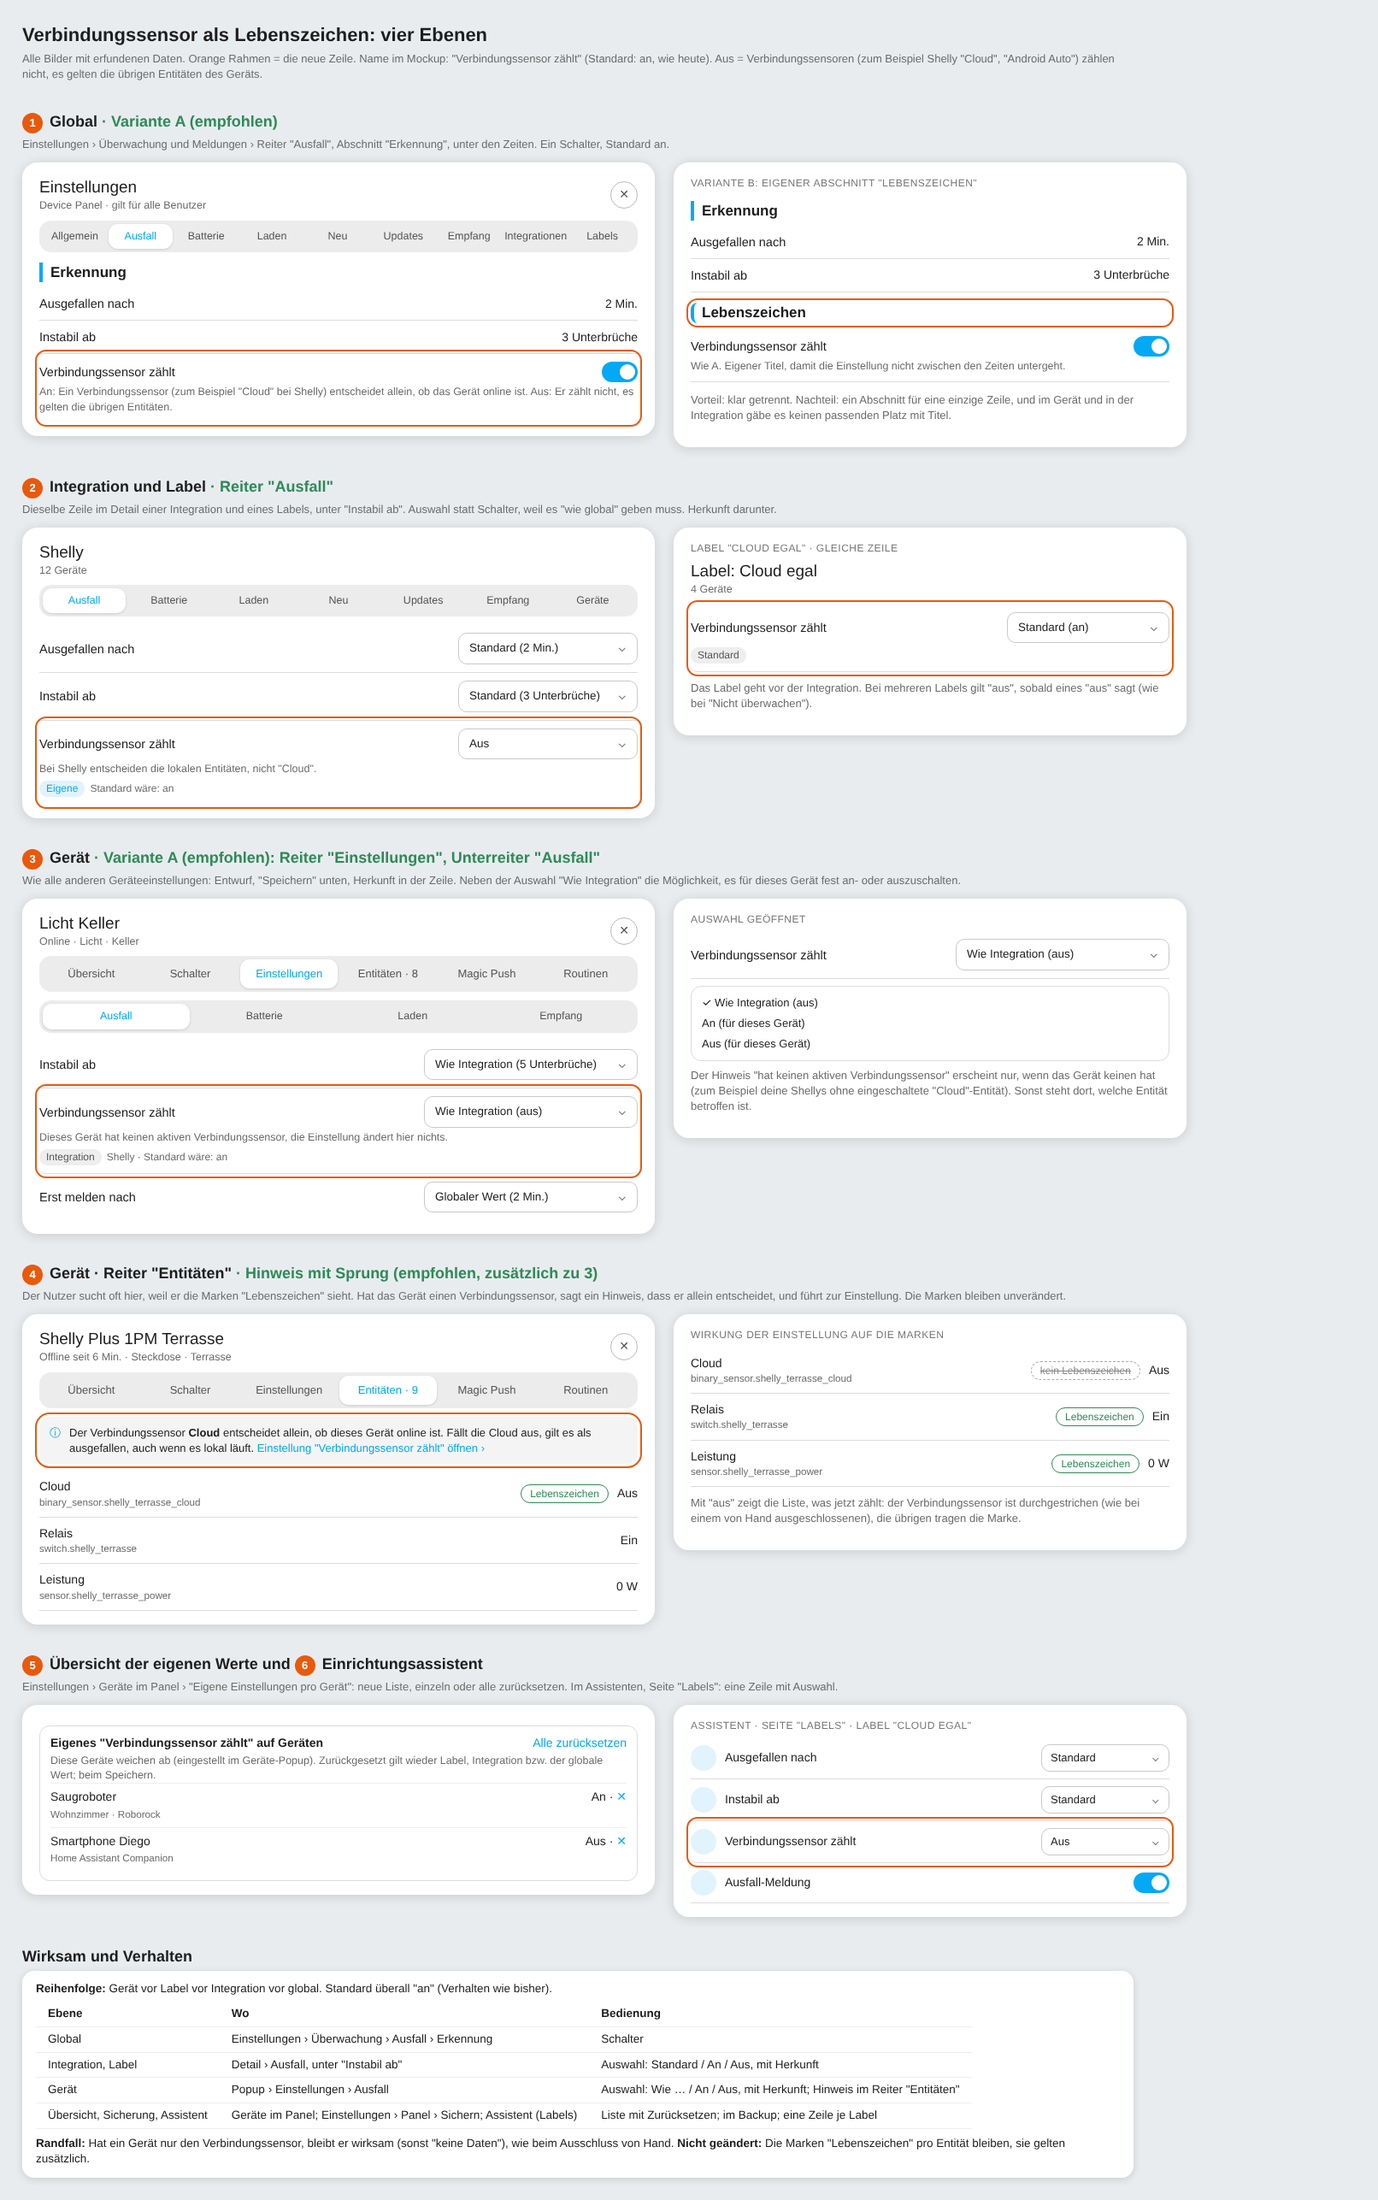
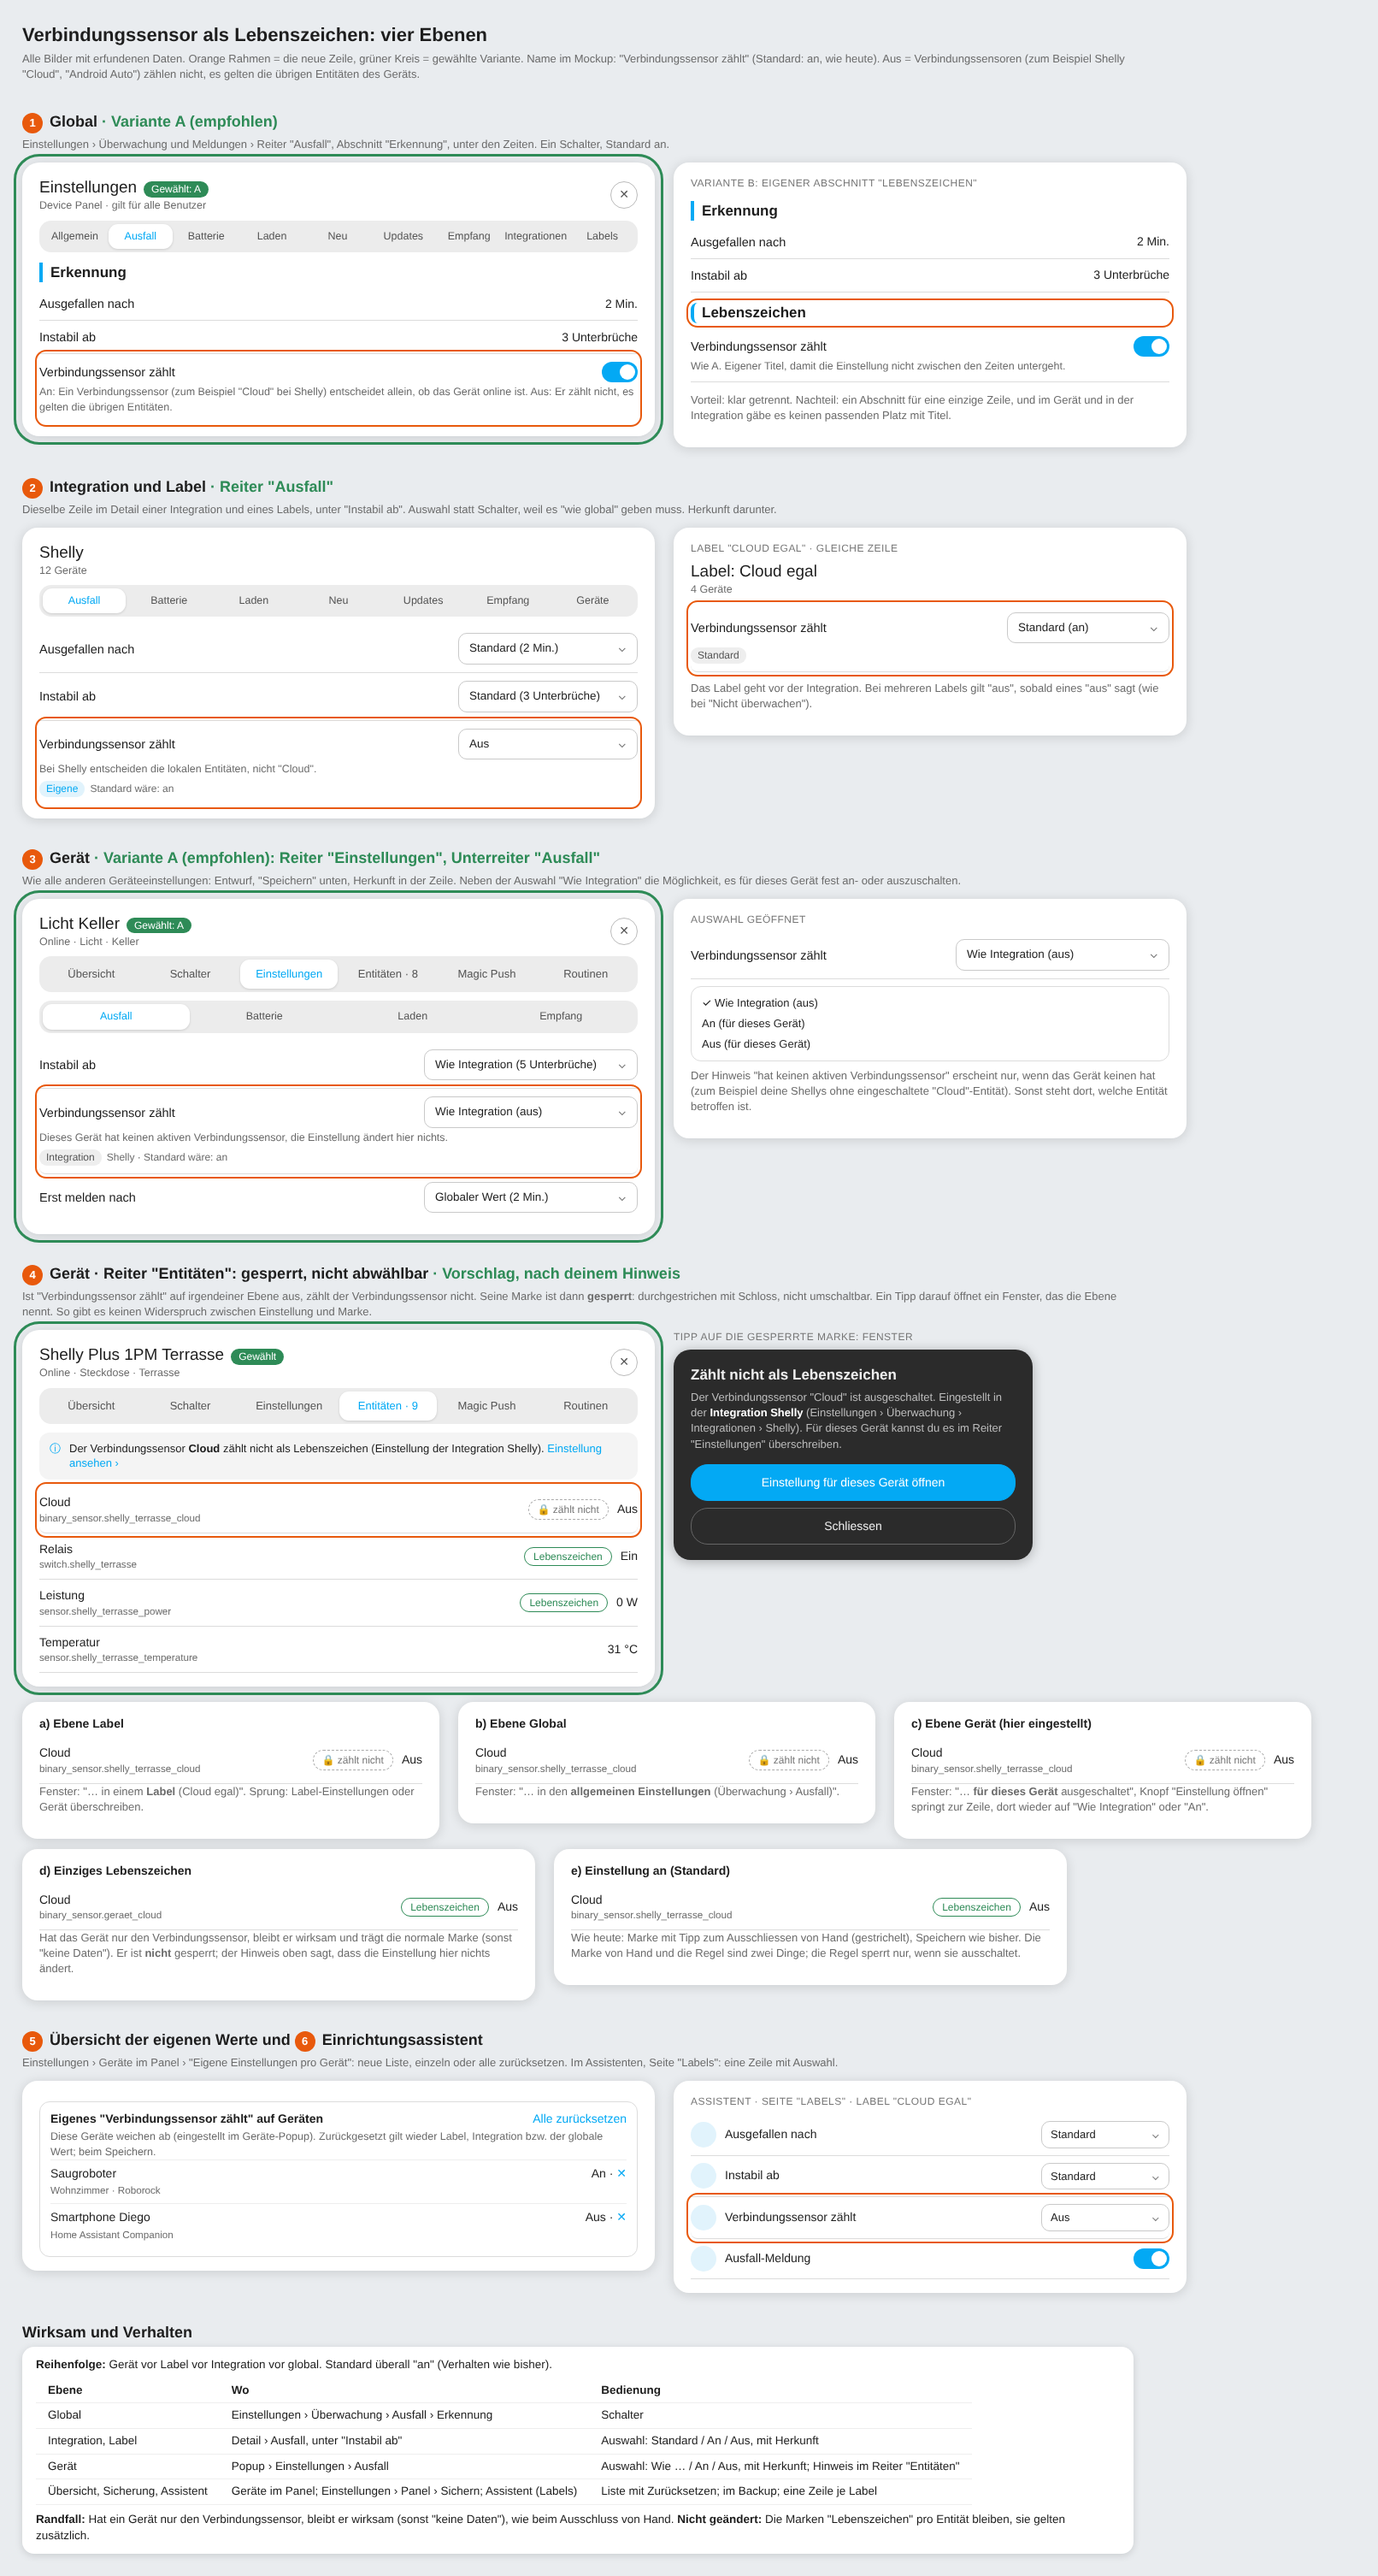
Mockup liveness-conn-v1: gewählte Varianten, gesperrte Marke im Reiter Entitäten
Claude-Session: https://claude.ai/code/session_01U1q7hu4Br2u4E6fFdEJMgU

diff --git a/docs/mockups/liveness-conn-v1/index.html b/docs/mockups/liveness-conn-v1/index.html
@@ -21,6 +21,11 @@ h1{margin:0 0 4px;font-size:22px}h2{margin:34px 0 4px;font-size:18px}.rec{color:
 .sw.off{background:#b9b9b9}.sw.off:after{right:auto;left:3px}
 .org{margin-top:5px;font-size:12px;color:var(--t2)}.org b{display:inline-block;padding:1px 8px;border-radius:9px;font-weight:500;margin-right:6px;background:#eee;color:#555}.org b.own{background:var(--ps);color:var(--p)}
 .mark{outline:2px solid #e8590c;outline-offset:3px;border-radius:8px}
+.pick{outline:3px solid var(--ok);outline-offset:7px;border-radius:20px}
+.pickt{display:inline-block;background:var(--ok);color:#fff;border-radius:10px;padding:1px 9px;font-size:12px;margin-left:8px}
+.lock{display:inline-flex;align-items:center;gap:5px;border:1px dashed #aaa;color:#777;border-radius:14px;padding:3px 10px;font-size:12px;margin-right:10px}
+.dd{width:420px;background:#2b2b2b;color:#eee;border-radius:20px;padding:18px 20px;box-shadow:0 2px 14px #0004}.dd b{display:block;font-size:17px;margin-bottom:6px}.dd small{display:block;color:#bbb;font-size:13px;line-height:1.4}.dd .bt{display:flex;flex-direction:column;gap:8px;margin-top:14px}.dd .bt span{border-radius:20px;padding:11px;text-align:center;border:1px solid #666}.dd .bt span.pr{background:var(--p);border-color:var(--p);color:#fff}
+.case{margin:0 0 6px;font-weight:600}
 .note{display:flex;gap:10px;background:#f4f4f4;border-radius:12px;padding:10px 12px;margin:8px 0;font-size:13px}.note i{font-style:normal;color:var(--p)}
 .link{color:var(--p);font-weight:500}
 .ent{display:flex;justify-content:space-between;align-items:center;padding:9px 0;border-bottom:1px solid var(--ln)}.ent small{display:block;color:var(--t2)}
@@ -36,12 +41,12 @@ h1{margin:0 0 4px;font-size:22px}h2{margin:34px 0 4px;font-size:18px}.rec{color:
 .rule table{border-collapse:collapse;margin-top:6px}.rule td,.rule th{padding:5px 14px;border-bottom:1px solid #eee;text-align:left}
 </style>
 <h1>Verbindungssensor als Lebenszeichen: vier Ebenen</h1>
-<p class="sub">Alle Bilder mit erfundenen Daten. Orange Rahmen = die neue Zeile. Name im Mockup: "Verbindungssensor zählt" (Standard: an, wie heute). Aus = Verbindungssensoren (zum Beispiel Shelly "Cloud", "Android Auto") zählen nicht, es gelten die übrigen Entitäten des Geräts.</p>
+<p class="sub">Alle Bilder mit erfundenen Daten. Orange Rahmen = die neue Zeile, grüner Kreis = gewählte Variante. Name im Mockup: "Verbindungssensor zählt" (Standard: an, wie heute). Aus = Verbindungssensoren (zum Beispiel Shelly "Cloud", "Android Auto") zählen nicht, es gelten die übrigen Entitäten des Geräts.</p>
 
 <h2><span class="num">1</span>Global <span class="rec">· Variante A (empfohlen)</span></h2>
 <p class="sub">Einstellungen › Überwachung und Meldungen › Reiter "Ausfall", Abschnitt "Erkennung", unter den Zeiten. Ein Schalter, Standard an.</p>
-<div class="row"><div class="win">
- <div class="hd"><div><b>Einstellungen</b><small>Device Panel · gilt für alle Benutzer</small></div><div class="x">✕</div></div>
+<div class="row"><div class="win pick">
+ <div class="hd"><div><b>Einstellungen</b><span class="pickt">Gewählt: A</span><small>Device Panel · gilt für alle Benutzer</small></div><div class="x">✕</div></div>
  <div class="tabs sm"><i>Allgemein</i><i class="on">Ausfall</i><i>Batterie</i><i>Laden</i><i>Neu</i><i>Updates</i><i>Empfang</i><i>Integrationen</i><i>Labels</i></div>
  <div class="ttl">Erkennung</div>
  <div class="opt"><div class="line"><span class="lbl">Ausgefallen nach</span><span>2 Min.</span></div></div>
@@ -74,8 +79,8 @@ h1{margin:0 0 4px;font-size:22px}h2{margin:34px 0 4px;font-size:18px}.rec{color:
 
 <h2><span class="num">3</span>Gerät <span class="rec">· Variante A (empfohlen): Reiter "Einstellungen", Unterreiter "Ausfall"</span></h2>
 <p class="sub">Wie alle anderen Geräteeinstellungen: Entwurf, "Speichern" unten, Herkunft in der Zeile. Neben der Auswahl "Wie Integration" die Möglichkeit, es für dieses Gerät fest an- oder auszuschalten.</p>
-<div class="row"><div class="win">
- <div class="hd"><div><b>Licht Keller</b><small>Online · Licht · Keller</small></div><div class="x">✕</div></div>
+<div class="row"><div class="win pick">
+ <div class="hd"><div><b>Licht Keller</b><span class="pickt">Gewählt: A</span><small>Online · Licht · Keller</small></div><div class="x">✕</div></div>
  <div class="tabs"><i>Übersicht</i><i>Schalter</i><i class="on">Einstellungen</i><i>Entitäten · 8</i><i>Magic Push</i><i>Routinen</i></div>
  <div class="tabs sm"><i class="on">Ausfall</i><i>Batterie</i><i>Laden</i><i>Empfang</i></div>
  <div class="opt"><div class="line"><span class="lbl">Instabil ab</span><span class="sel">Wie Integration (5 Unterbrüche)</span></div></div>
@@ -88,21 +93,28 @@ h1{margin:0 0 4px;font-size:22px}h2{margin:34px 0 4px;font-size:18px}.rec{color:
  <div class="note" style="flex-direction:column;gap:6px;background:#fff;border:1px solid var(--ln)"><span>✓ Wie Integration (aus)</span><span>An (für dieses Gerät)</span><span>Aus (für dieses Gerät)</span></div>
  <p class="sub">Der Hinweis "hat keinen aktiven Verbindungssensor" erscheint nur, wenn das Gerät keinen hat (zum Beispiel deine Shellys ohne eingeschaltete "Cloud"-Entität). Sonst steht dort, welche Entität betroffen ist.</p></div></div>
 
-<h2><span class="num">4</span>Gerät · Reiter "Entitäten" <span class="rec">· Hinweis mit Sprung (empfohlen, zusätzlich zu 3)</span></h2>
-<p class="sub">Der Nutzer sucht oft hier, weil er die Marken "Lebenszeichen" sieht. Hat das Gerät einen Verbindungssensor, sagt ein Hinweis, dass er allein entscheidet, und führt zur Einstellung. Die Marken bleiben unverändert.</p>
-<div class="row"><div class="win">
- <div class="hd"><div><b>Shelly Plus 1PM Terrasse</b><small>Offline seit 6 Min. · Steckdose · Terrasse</small></div><div class="x">✕</div></div>
+<h2><span class="num">4</span>Gerät · Reiter "Entitäten": gesperrt, nicht abwählbar <span class="rec">· Vorschlag, nach deinem Hinweis</span></h2>
+<p class="sub">Ist "Verbindungssensor zählt" auf irgendeiner Ebene aus, zählt der Verbindungssensor nicht. Seine Marke ist dann <b>gesperrt</b>: durchgestrichen mit Schloss, nicht umschaltbar. Ein Tipp darauf öffnet ein Fenster, das die Ebene nennt. So gibt es keinen Widerspruch zwischen Einstellung und Marke.</p>
+<div class="row"><div class="win pick">
+ <div class="hd"><div><b>Shelly Plus 1PM Terrasse</b><span class="pickt">Gewählt</span><small>Online · Steckdose · Terrasse</small></div><div class="x">✕</div></div>
  <div class="tabs"><i>Übersicht</i><i>Schalter</i><i>Einstellungen</i><i class="on">Entitäten · 9</i><i>Magic Push</i><i>Routinen</i></div>
- <div class="note mark"><i>ⓘ</i><span>Der Verbindungssensor <b>Cloud</b> entscheidet allein, ob dieses Gerät online ist. Fällt die Cloud aus, gilt es als ausgefallen, auch wenn es lokal läuft. <span class="link">Einstellung "Verbindungssensor zählt" öffnen ›</span></span></div>
- <div class="ent"><span>Cloud<small>binary_sensor.shelly_terrasse_cloud</small></span><span><span class="pill">Lebenszeichen</span>Aus</span></div>
- <div class="ent"><span>Relais<small>switch.shelly_terrasse</small></span><span>Ein</span></div>
- <div class="ent"><span>Leistung<small>sensor.shelly_terrasse_power</small></span><span>0 W</span></div>
-</div>
-<div class="win narrow"><div class="cap">Wirkung der Einstellung auf die Marken</div>
- <div class="ent"><span>Cloud<small>binary_sensor.shelly_terrasse_cloud</small></span><span><span class="pill x2">kein Lebenszeichen</span>Aus</span></div>
+ <div class="note"><i>ⓘ</i><span>Der Verbindungssensor <b>Cloud</b> zählt nicht als Lebenszeichen (Einstellung der Integration Shelly). <span class="link">Einstellung ansehen ›</span></span></div>
+ <div class="ent mark"><span>Cloud<small>binary_sensor.shelly_terrasse_cloud</small></span><span><span class="lock">🔒 zählt nicht</span>Aus</span></div>
  <div class="ent"><span>Relais<small>switch.shelly_terrasse</small></span><span><span class="pill">Lebenszeichen</span>Ein</span></div>
  <div class="ent"><span>Leistung<small>sensor.shelly_terrasse_power</small></span><span><span class="pill">Lebenszeichen</span>0 W</span></div>
- <p class="sub" style="margin-top:10px">Mit "aus" zeigt die Liste, was jetzt zählt: der Verbindungssensor ist durchgestrichen (wie bei einem von Hand ausgeschlossenen), die übrigen tragen die Marke.</p></div></div>
+ <div class="ent"><span>Temperatur<small>sensor.shelly_terrasse_temperature</small></span><span>31 °C</span></div>
+</div>
+<div><div class="cap">Tipp auf die gesperrte Marke: Fenster</div>
+ <div class="dd"><b>Zählt nicht als Lebenszeichen</b><small>Der Verbindungssensor "Cloud" ist ausgeschaltet. Eingestellt in der <b style="display:inline;font-size:13px;color:#fff">Integration Shelly</b> (Einstellungen › Überwachung › Integrationen › Shelly). Für dieses Gerät kannst du es im Reiter "Einstellungen" überschreiben.</small>
+ <div class="bt"><span class="pr">Einstellung für dieses Gerät öffnen</span><span>Schliessen</span></div></div></div></div>
+
+<div class="row" style="margin-top:18px">
+<div class="win narrow"><div class="case">a) Ebene Label</div><div class="ent"><span>Cloud<small>binary_sensor.shelly_terrasse_cloud</small></span><span><span class="lock">🔒 zählt nicht</span>Aus</span></div><p class="sub">Fenster: "… in einem <b>Label</b> (Cloud egal)". Sprung: Label-Einstellungen oder Gerät überschreiben.</p></div>
+<div class="win narrow"><div class="case">b) Ebene Global</div><div class="ent"><span>Cloud<small>binary_sensor.shelly_terrasse_cloud</small></span><span><span class="lock">🔒 zählt nicht</span>Aus</span></div><p class="sub">Fenster: "… in den <b>allgemeinen Einstellungen</b> (Überwachung › Ausfall)".</p></div>
+<div class="win narrow"><div class="case">c) Ebene Gerät (hier eingestellt)</div><div class="ent"><span>Cloud<small>binary_sensor.shelly_terrasse_cloud</small></span><span><span class="lock">🔒 zählt nicht</span>Aus</span></div><p class="sub">Fenster: "… <b>für dieses Gerät</b> ausgeschaltet", Knopf "Einstellung öffnen" springt zur Zeile, dort wieder auf "Wie Integration" oder "An".</p></div></div>
+<div class="row" style="margin-top:12px">
+<div class="win narrow"><div class="case">d) Einziges Lebenszeichen</div><div class="ent"><span>Cloud<small>binary_sensor.geraet_cloud</small></span><span><span class="pill">Lebenszeichen</span>Aus</span></div><p class="sub">Hat das Gerät nur den Verbindungssensor, bleibt er wirksam und trägt die normale Marke (sonst "keine Daten"). Er ist <b>nicht</b> gesperrt; der Hinweis oben sagt, dass die Einstellung hier nichts ändert.</p></div>
+<div class="win narrow"><div class="case">e) Einstellung an (Standard)</div><div class="ent"><span>Cloud<small>binary_sensor.shelly_terrasse_cloud</small></span><span><span class="pill">Lebenszeichen</span>Aus</span></div><p class="sub">Wie heute: Marke mit Tipp zum Ausschliessen von Hand (gestrichelt), Speichern wie bisher. Die Marke von Hand und die Regel sind zwei Dinge; die Regel sperrt nur, wenn sie ausschaltet.</p></div></div>
 
 <h2><span class="num">5</span>Übersicht der eigenen Werte und <span class="num">6</span>Einrichtungsassistent</h2>
 <p class="sub">Einstellungen › Geräte im Panel › "Eigene Einstellungen pro Gerät": neue Liste, einzeln oder alle zurücksetzen. Im Assistenten, Seite "Labels": eine Zeile mit Auswahl.</p>
